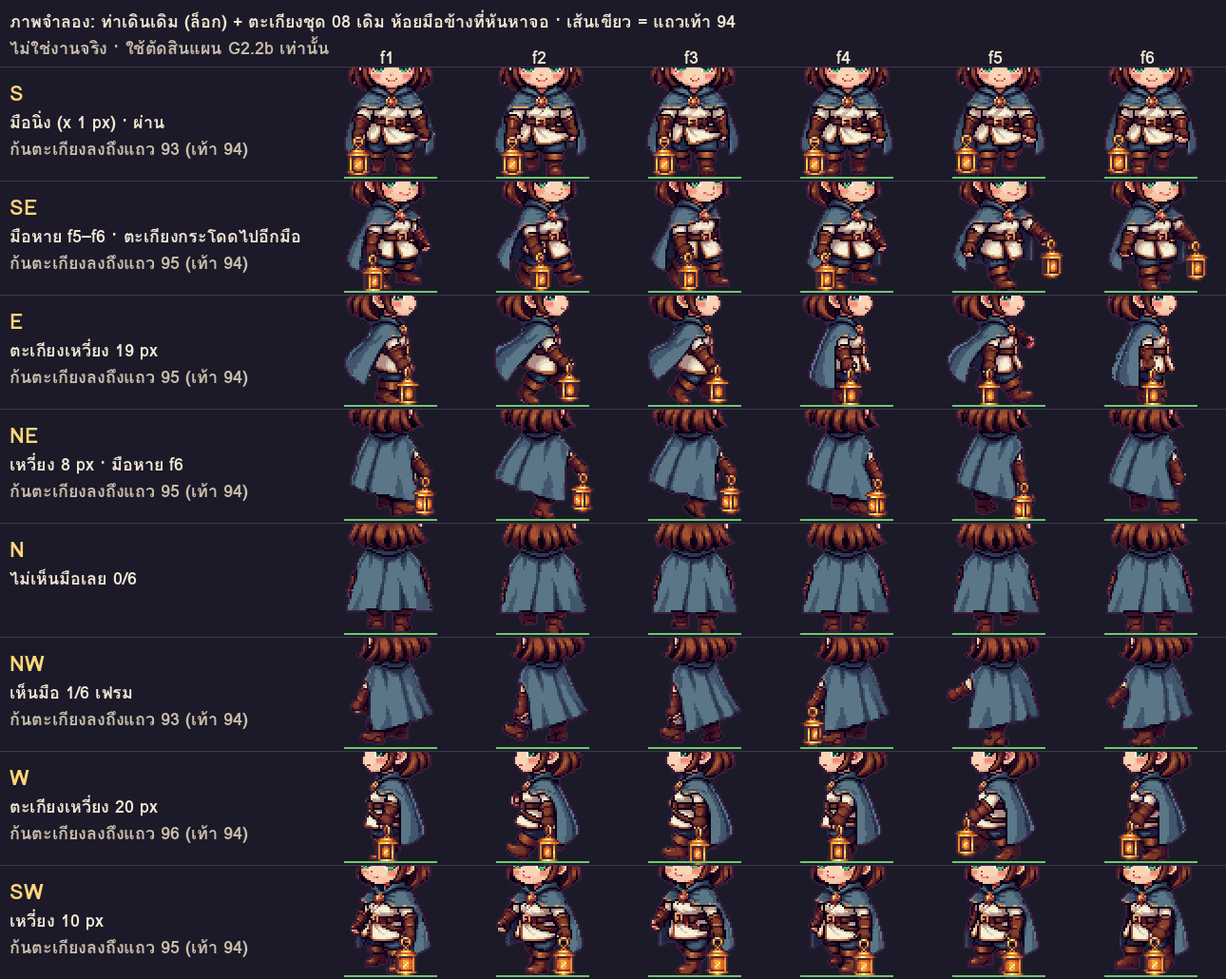
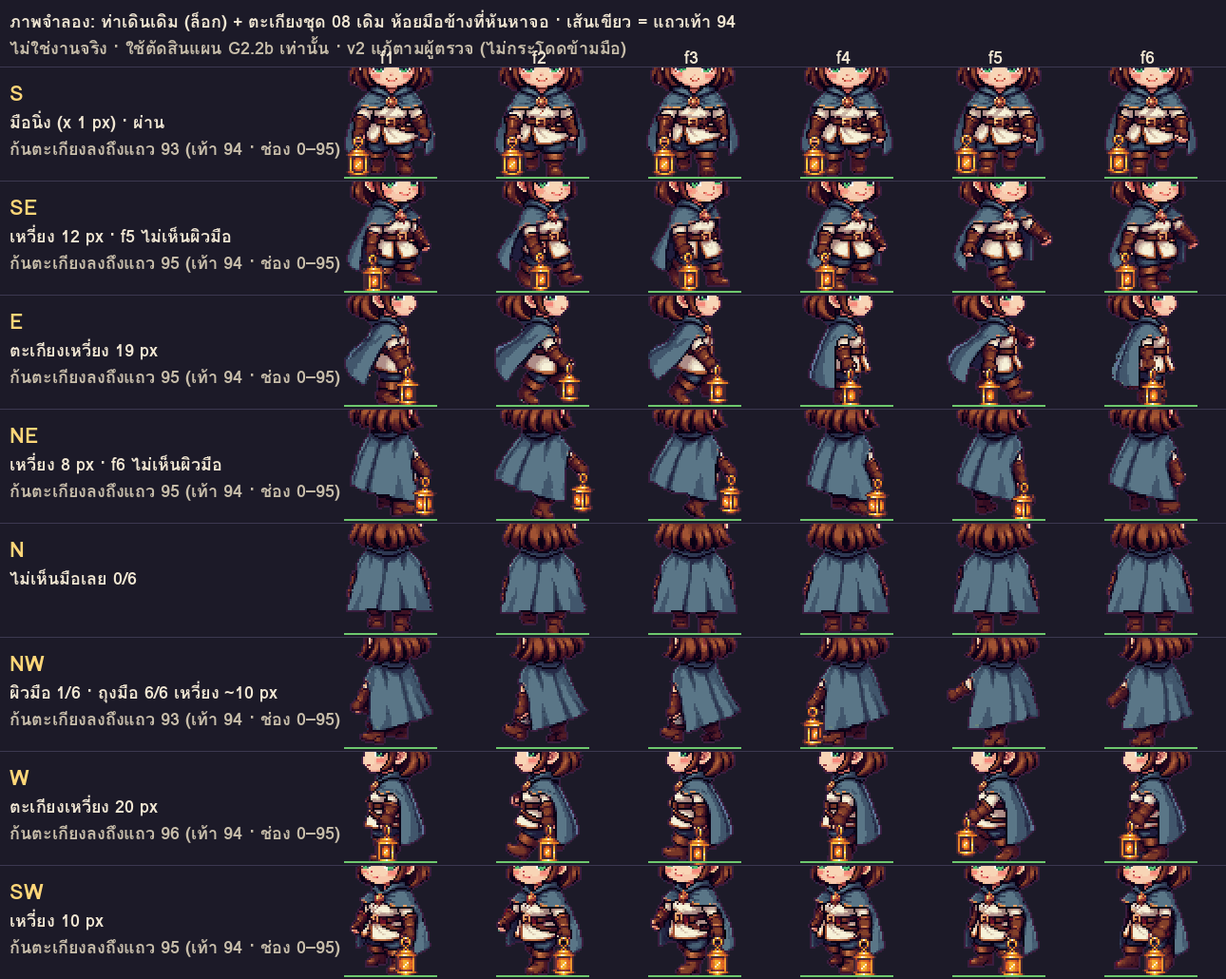
G2.2b plan v0.1: fixes from Claude's independent reviewer (mock no longer jumps hands: SE 5/6 skin 12 px, NW gloved fist 6/6 ~10 px; lantern 3-4 px too long; hand rule is an owner decision since Spec v2 says right hand; measurable fist rule skin + ID7 within 2 px (max 37 px); N is an owner exception
Claude-Session: https://claude.ai/code/session_01SmMvQnyFs5gQEFU8cw32m3

diff --git a/qa_g22b_trial.py b/qa_g22b_trial.py
@@ -1,0 +1,106 @@
+# G2.2b step 3: measure one PixelLab walk GIF (low arm swing) against the locked walk (same method on both).
+# usage: python3 -I qa_g22b_trial.py WT DIR GIF OUTDIR   (self-test: a GIF rebuilt from walk-src.png row reproduces head diff 0, new colours 0, pass_hand False for E)
+import sys, json, numpy as np
+from PIL import Image, ImageSequence, ImageDraw
+from scipy import ndimage as nd
+WT, D, GIF, OUT = sys.argv[1:5]
+L8=['S','SE','E','NE','N','NW','W','SW']; C=96; r=L8.index(D)
+src=json.load(open(f'{WT}/c2-pilot-kid4-walk-src.json'))
+static_x=src['walk_anchor'][D]['static_body_x']
+g=Image.open(GIF); fr=[]; ms=[]
+for f in ImageSequence.Iterator(g):
+    fr.append(np.array(f.convert('RGBA'))); ms.append(f.info.get('duration'))
+fr=np.stack(fr); fr[...,3]=np.where(fr[...,3]>0,255,0)
+n,H,W,_=fr.shape
+op=fr[...,3]>0
+ys=np.where(op.any(axis=(0,2)))[0]; low=int(ys.max())
+dy=94-low
+# cycle-mean body centre rows 52-86 after dy
+bx=[]
+for k in range(n):
+    yy,xx=np.where(op[k]); sel=(yy+dy>=52)&(yy+dy<=86); bx.append(xx[sel].mean())
+dx=round(static_x-float(np.mean(bx)))
+cells=np.zeros((n,C,C,4),np.uint8)
+for k in range(n):
+    yy,xx=np.where(op[k]); Y=yy+dy; X=xx+dx
+    ok=(Y>=0)&(Y<C)&(X>=0)&(X<C)
+    lost=int((~ok).sum())
+    cells[k,Y[ok],X[ok]]=fr[k,yy[ok],xx[ok]]
+# palettes from locked files
+def cols(img): a=np.array(img.convert('RGBA')).reshape(-1,4); return {tuple(p[:3]) for p in a if p[3]}
+locked=cols(Image.open(f'{WT}/c2-pilot-kid4-walk-src.png'))|cols(Image.open(f'{WT}/c2-pilot-kid4-walk.png'))|cols(Image.open(f'{WT}/c2-pilot-kid4-idleanim.png'))
+W_=np.array(Image.open(f'{WT}/c2-pilot-kid4-walk.png').convert('RGBA')); WM=np.array(Image.open(f'{WT}/c2-pilot-kid4-walk-mask.png').convert('RGBA'))
+# skin colours = colours used as ID 3 in >=85% of their locked uses and >=100 px (PixelLab shares colours across materials)
+from collections import defaultdict
+use=defaultdict(lambda:defaultdict(int))
+for fn in ['walk','idleanim']:
+    I_=np.array(Image.open(f'{WT}/c2-pilot-kid4-{fn}.png').convert('RGBA')); M_=np.array(Image.open(f'{WT}/c2-pilot-kid4-{fn}-mask.png').convert('RGBA'))
+    o=I_[...,3]>0
+    for c,i in zip(map(tuple,I_[o][:,:3]),M_[o][:,0]): use[tuple(int(v) for v in c)][int(i)]+=1
+skin={c for c,v in use.items() if v.get(3,0)>=100 and v.get(3,0)/sum(v.values())>=0.85}
+newc={}
+for k in range(n):
+    for p in cells[k][cells[k][...,3]>0][:,:3]:
+        t=tuple(int(v) for v in p)
+        if t not in locked: newc[t]=newc.get(t,0)+1
+def fists(cell):
+    sk=np.zeros(cell.shape[:2],bool)
+    for yy in range(60,C):
+        for xx in range(C):
+            if cell[yy,xx,3] and tuple(int(v) for v in cell[yy,xx,:3]) in skin: sk[yy,xx]=True
+    lab,m=nd.label(nd.binary_dilation(sk,iterations=2),structure=np.ones((3,3))); out=[]
+    for i in range(1,m+1):
+        yy,xx=np.where((lab==i)&sk)
+        if len(xx)>=2: out.append((float(xx.mean()),float(yy.mean()),len(xx)))
+    return out
+track=[]; prev=None
+for k in range(n):
+    c=fists(cells[k])
+    if not c: track.append(None); continue
+    p=max(c,key=lambda q:(q[2],q[1])) if prev is None else min(c,key=lambda q:(q[0]-prev[0])**2+(q[1]-prev[1])**2)
+    prev=p; track.append([round(p[0]),round(p[1])])
+vis=[t for t in track if t]
+# baseline: same method on the locked raw walk (walk-src.png) of this direction
+WS=np.array(Image.open(f'{WT}/c2-pilot-kid4-walk-src.png').convert('RGBA'))[r*C:(r+1)*C]
+bt=[];bp=None
+for k in range(6):
+    c=fists(WS[:,k*C:(k+1)*C])
+    if not c: bt.append(None); continue
+    q=max(c,key=lambda q:(q[2],q[1])) if bp is None else min(c,key=lambda q:(q[0]-bp[0])**2+(q[1]-bp[1])**2)
+    bp=q; bt.append([round(q[0]),round(q[1])])
+bv=[t for t in bt if t]
+baseline=dict(near_hand=bt,visible=f'{len(bv)}/6',x_range=(max(v[0] for v in bv)-min(v[0] for v in bv)) if bv else None,y_range=(max(v[1] for v in bv)-min(v[1] for v in bv)) if bv else None)
+jumps=[max(abs(a[0]-b[0]),abs(a[1]-b[1])) for a,b in zip(track,track[1:]+track[:1]) if a and b]
+# locked walk same direction for comparison
+LW=np.array(Image.open(f'{WT}/c2-pilot-kid4-walk.png').convert('RGBA'))[r*C:(r+1)*C]
+head_diff=[]
+for k in range(min(n,6)):
+    a=cells[k][:52]; best=None
+    for sx in range(-3,4):
+        for sy in range(-3,4):
+            b=np.roll(np.roll(WS[:52,k*C:(k+1)*C],sy,0),sx,1)
+            d=int(((a[...,3]>0)!=(b[...,3]>0)).sum()+((a[...,3]>0)&(b[...,3]>0)&(np.abs(a[...,:3].astype(int)-b[...,:3].astype(int)).sum(-1)>0)).sum())
+            if best is None or d<best[0]: best=(d,sx,sy)
+    head_diff.append(best)
+rep=dict(direction=D,gif=GIF,frames=n,gif_ms=ms,canvas=[W,H],placement_dxdy=[dx,dy],pixels_lost_outside_cell=lost,
+  lowest_row=94,new_colours_not_in_locked=len(newc),new_colour_pixels=sum(newc.values()),
+  near_hand=track,visible=f'{len(vis)}/{n}',
+  x_range=(max(v[0] for v in vis)-min(v[0] for v in vis)) if vis else None,
+  y_range=(max(v[1] for v in vis)-min(v[1] for v in vis)) if vis else None,
+  max_adjacent_jump=max(jumps) if jumps else None,
+  head_rows0_51_diff_vs_raw_walk_best_shift=head_diff,
+  baseline_locked_walk_same_method=baseline,
+  pass_hand=bool(vis and len(vis)==n and (max(v[0] for v in vis)-min(v[0] for v in vis))<=4 and (max(v[1] for v in vis)-min(v[1] for v in vis))<=3 and max(jumps)<=3))
+json.dump(rep,open(f'{OUT}/trial-{D}.json','w'),indent=1); print(json.dumps(rep))
+# side-by-side GIF with stand-in lantern: locked walk | trial
+lan=Image.open(f'{WT}/kid-lantern.png').convert('RGBA').crop((r*32,0,(r+1)*32,32))
+mock=json.load(open(f'{WT}/qa/g2-2b-plan/mock.json'))['anchors']['walk'][D]
+SC=4; frames=[]
+for k in range(n):
+    can=Image.new('RGBA',(2*C,C),(28,26,40,255))
+    for i,(cell,p) in enumerate([(Image.fromarray(LW[:,(k%6)*C:((k%6)+1)*C]),mock[k%6]),(Image.fromarray(cells[k]),track[k])]):
+        b=Image.new('RGBA',(C,C),(0,0,0,0)); b.alpha_composite(cell)
+        if p: b.alpha_composite(lan,(p[0]-16,p[1]-6))
+        ImageDraw.Draw(b).line([(24,94),(72,94)],fill=(110,200,110,255)); can.alpha_composite(b,(i*C,0))
+    frames.append(can.resize((2*C*SC,C*SC),Image.NEAREST).convert('P',palette=Image.ADAPTIVE))
+frames[0].save(f'{OUT}/trial-{D}-vs-locked.gif',save_all=True,append_images=frames[1:],duration=100,loop=0,disposal=2)

diff --git a/qa/g2-2b-plan/mock_sheet.py b/qa/g2-2b-plan/mock_sheet.py
@@ -8,17 +8,17 @@ walk=Image.open(f'{WT}/c2-pilot-kid4-walk.png').convert('RGBA')
 F=ImageFont.truetype('/usr/share/fonts/opentype/tlwg/Loma-Bold.otf',22)
 Fs=ImageFont.truetype('/usr/share/fonts/opentype/tlwg/Loma-Bold.otf',18)
 X0,Y0,X1,Y1=8,36,88,96; cw,ch=(X1-X0)*2,(Y1-Y0)*2; LW=330
-note={'S':'มือนิ่ง (x 1 px) · ผ่าน','SE':'มือหาย f5–f6 · ตะเกียงกระโดดไปอีกมือ','E':'ตะเกียงเหวี่ยง 19 px','NE':'เหวี่ยง 8 px · มือหาย f6',
-      'N':'ไม่เห็นมือเลย 0/6','NW':'เห็นมือ 1/6 เฟรม','W':'ตะเกียงเหวี่ยง 20 px','SW':'เหวี่ยง 10 px'}
+note={'S':'มือนิ่ง (x 1 px) · ผ่าน','SE':'เหวี่ยง 12 px · f5 ไม่เห็นผิวมือ','E':'ตะเกียงเหวี่ยง 19 px','NE':'เหวี่ยง 8 px · f6 ไม่เห็นผิวมือ',
+      'N':'ไม่เห็นมือเลย 0/6','NW':'ผิวมือ 1/6 · ถุงมือ 6/6 เหวี่ยง ~10 px','W':'ตะเกียงเหวี่ยง 20 px','SW':'เหวี่ยง 10 px'}
 im=Image.new('RGB',(LW+6*cw,70+8*ch),(28,26,40)); d=ImageDraw.Draw(im)
 d.text((10,8),'ภาพจำลอง: ท่าเดินเดิม (ล็อก) + ตะเกียงชุด 08 เดิม ห้อยมือข้างที่หันหาจอ · เส้นเขียว = แถวเท้า 94',font=Fs,fill=(240,230,210))
-d.text((10,36),'ไม่ใช่งานจริง · ใช้ตัดสินแผน G2.2b เท่านั้น',font=Fs,fill=(200,190,170))
+d.text((10,36),'ไม่ใช่งานจริง · ใช้ตัดสินแผน G2.2b เท่านั้น · v2 แก้ตามผู้ตรวจ (ไม่กระโดดข้ามมือ)',font=Fs,fill=(200,190,170))
 for r,D in enumerate(L8):
     oy=70+r*ch
     s=SM[D]; bot=s.get('lantern_bottom_max')
     d.text((10,oy+10),D,font=F,fill=(255,214,120))
     d.text((10,oy+44),note[D],font=Fs,fill=(240,230,210))
-    if bot: d.text((10,oy+72),f'ก้นตะเกียงลงถึงแถว {bot} (เท้า 94)',font=Fs,fill=(200,190,170))
+    if bot: d.text((10,oy+72),f'ก้นตะเกียงลงถึงแถว {bot} (เท้า 94 · ช่อง 0–95)',font=Fs,fill=(200,190,170))
     for f in range(6):
         cell=walk.crop((f*C,r*C,(f+1)*C,(r+1)*C)); p=A[D][f]
         lay=Image.new('RGBA',(C,C),(0,0,0,0))

diff --git a/qa/g2-2b-plan/mock_lantern_reuse.py b/qa/g2-2b-plan/mock_lantern_reuse.py
@@ -1,6 +1,7 @@
 # G2.2b feasibility mock (scratch only, not a deliverable):
 # hang the existing Set-08 L0 lantern on the visible fist of the LOCKED idle/walk frames.
 # Fist = skin (mask ID 3) pixels below row 60, grouped; near-camera hand rule.
+# NOTE: 'visible' here = finger SKIN visible; gloved fists without skin (ID 7 only) count as not visible.
 import sys, json, numpy as np
 from PIL import Image, ImageDraw
 from scipy import ndimage as nd
@@ -22,7 +23,9 @@ def pick(cands, prev, D):
     if prev is None:
         if D=='S': return min(cands,key=lambda c:c[0])          # character's right hand = screen left
         return max(cands,key=lambda c:(c[1],c[2]))                # nearest camera = lowest on screen
-    return min(cands,key=lambda c:(c[0]-prev[0])**2+(c[1]-prev[1])**2)
+    best=min(cands,key=lambda c:(c[0]-prev[0])**2+(c[1]-prev[1])**2)
+    # v2 (review fix): never jump to the other hand - a fist further than 14 px from the last one is not the same hand
+    return best if max(abs(best[0]-prev[0]),abs(best[1]-prev[1]))<=14 else None
 res={}
 for anim,nf,fn in [('idle',4,'idleanim'),('walk',6,'walk')]:
     S=Image.open(f'{WT}/c2-pilot-kid4-{fn}.png').convert('RGBA')
@@ -32,7 +35,7 @@ for anim,nf,fn in [('idle',4,'idleanim'),('walk',6,'walk')]:
         prev=None; rows=[]
         for f in range(nf):
             c=pick(fists(M[r*C:(r+1)*C,f*C:(f+1)*C]),prev,D)
-            if c: prev=c
+            if c: prev=c  # a frame without skin keeps the last seen position for tracking only (anchor stays None)
             rows.append(None if c is None else [round(c[0]),round(c[1])])
         res[anim][D]=rows
 def stats(rows):
@@ -55,7 +58,7 @@ def frame(anim,fn,nf,f,bg):
         p=res[anim][D][f]
         L=lan.crop((r*32,0,(r+1)*32,32))
         layer=Image.new('RGBA',(C,C),(0,0,0,0))
-        back = D in ('N','NW','W','SW')
+        back = False  # plan 4.2: near-camera hand -> lantern always in front (v2 review fix)
         if p: 
             pos=(p[0]-RING[0],p[1]-RING[1])
         if p and back: layer.alpha_composite(L,pos)

diff --git a/G2_2B_LANTERN_HOLD_PLAN.md b/G2_2B_LANTERN_HOLD_PLAN.md
@@ -1,8 +1,10 @@
-# G2.2b — แผนท่าถือตะเกียงของตัวเด็ก 8 ทิศ (Claude · ฉบับ v0 · 16 ต.ค. 2569 ~14:0x)
+# G2.2b — แผนท่าถือตะเกียงของตัวเด็ก 8 ทิศ (Claude · ฉบับ v0.1 · 16 ต.ค. 2569 ~14:3x)
 
-**สถานะ: ร่างแผน · รอเจ้าของเลือกวิธีทำท่าเดินถือ (คำถามเดียว ข้อ 3) · 🟧 ChatGPT ตรวจแผนคู่ขนาน (กติกา 0.1 + 0.3) · ยังไม่สั่ง Codex · ยังไม่กด PixelLab**
+**สถานะ: ร่างแผน · รอเจ้าของเลือกวิธีทำท่าเดินถือ (ข้อ 3 · ถามก่อน) · เรื่องถือมือไหน (D-HAND ข้อ 4.1) ถามหลังขั้นลองทิศ E · 🟧 ChatGPT ตรวจแผนคู่ขนาน (กติกา 0.1 + 0.3) · ยังไม่สั่ง Codex · ยังไม่กด PixelLab**
 
-**อ้างอิง:** D9 (เจ้าของ 16 ต.ค. ~13:4x) · `STORY.md` ข้อ 7–8 · Spec v2 ข้อ 2–3 และ 9 (`idle_hold` 4 เฟรม 5 FPS · `walk_hold` 6 เฟรม 10 FPS · ชั้น `held_front`/`held_back`) · Reboot Plan ข้อ 5 (lantern slot) · `G2_0_VERTICAL_SLICE_PLAN.md` G2.5 (grip บนมือ 80 เฟรม) · `DESIGN_CHAR2_RENDER_CONTRACT.md` · `ASSET_SPEC_12` Part B (กติกาเก็บงานท่าเดิน) · `PIXELLAB_GUIDE.md` ข้อ 7
+**อ้างอิง:** D9 (เจ้าของ 16 ต.ค. ~13:4x) · `STORY.md` ข้อ 7–8 · Spec v2 ข้อ 2–3 และ 9 (`idle_hold` 4 เฟรม 5 FPS "ยืนถือตะเกียงมือขวา" · `walk_hold` 6 เฟรม 10 FPS · ชั้น `held_front`/`held_back` ตามค่า z ต่อเฟรม) · Reboot Plan ข้อ 5 (lantern slot) · `G2_0_VERTICAL_SLICE_PLAN.md` G2.5 (grip บนมือ 100% ของ 80 เฟรม) และ G2.6 (เห็นตะเกียงโดยไม่ซูม) · `DESIGN_CHAR2_RENDER_CONTRACT.md` · `ASSET_SPEC_12` Part B (กติกาเก็บงานท่าเดิน) · `PIXELLAB_GUIDE.md` ข้อ 7
+
+**ประวัติฉบับ:** v0 `893c014` · **v0.1 = ฉบับนี้** แก้ตามผู้ตรวจอิสระของ Claude: ตัวเลข SE/NW ในข้อ 2 (สคริปต์จำลองเดิมกระโดดข้ามมือ) · ตะเกียงยาวเกิน 3–4 px · ถือมือไหนเป็นเรื่องที่เจ้าของต้องตัดสิน (Spec v2 เขียนมือขวา) · วิธีหาจุดมือให้วัดได้จริง · ทิศ N เป็นข้อยกเว้นที่เจ้าของต้องรับ · ค่า z ตาม Spec v2
 
 ## 1. เป้าหมายและขอบเขต
 - ตัวเด็ก `_4` ถือตะเกียง: ท่ายืนถือ `idle_hold` (4 เฟรม · 5 FPS) และท่าเดินถือ `walk_hold` (6 เฟรม · 10 FPS) · 8 ทิศ
@@ -12,45 +14,64 @@
 - **ไม่อยู่ใน G2.2b:** ภาพตะเกียงจริงของตัวใหม่และแสงอุ่น (G2.5) · กติกา "ตะเกียงหมด → มอนตี" (G3/G4) · สลับท่าตามแผนที่ในเกมจริง (G3 · ใน Pilot ใช้ปุ่มสลับ) · ผู้ใหญ่ไม่มีท่าถือ (D9)
 
 ## 2. สิ่งที่วัดแล้ว (ภาพจำลอง · 0 เครดิต · ไม่แก้ภาพ)
-นำตะเกียงชุด 08 L0 ไปห้อยที่กำปั้นของ **ท่ายืนและท่าเดินที่ล็อกแล้ว** (มือข้างที่หันหาจอ) · หลักฐาน `qa/g2-2b-plan/` (`g22b-mock-walk-reuse.png` `.gif` `mock.json` · สคริปต์ `mock_lantern_reuse.py`)
+นำตะเกียงชุด 08 L0 ไปห้อยที่กำปั้นของ **ท่ายืนและท่าเดินที่ล็อกแล้ว** (มือข้างที่หันหาจอ) · หลักฐาน `qa/g2-2b-plan/` (`g22b-mock-walk-reuse.png` `.gif` `mock.json` · สคริปต์ `mock_lantern_reuse.py` v2) · **ผู้ตรวจอิสระวัดซ้ำด้วยโค้ดของตัวเอง ตัวเลขตรงกัน** (SE และ NW แก้ตามผู้ตรวจ)
 
-| ทิศ | ยืน: เห็นมือ · มือเลื่อน | เดิน: เห็นมือ · ตะเกียงเหวี่ยงซ้ายขวา | ก้นตะเกียง (เท้า = แถว 94) |
+"เห็นมือ" ในตาราง = เห็น **ผิวนิ้ว** (ID 3) · กำปั้นส่วนใหญ่เป็นถุงมือหนัง (ID 7) เห็นผิวนิ้วแค่ 1–17 px ต่อกำปั้น
+
+| ทิศ | ยืน: เห็นมือ · มือเลื่อน | เดิน: เห็นมือ · ตะเกียงเหวี่ยงซ้ายขวา | ก้นตะเกียง ยืน / เดิน (เท้า = แถว 94) |
 |---|---|---|---|
-| S | 4/4 · 1 px | 6/6 · 1 px ✅ | ยืน 96 · เดิน 93 |
-| SE | 4/4 · 3 px | มือหาย f5–f6 → ตะเกียงกระโดดไปอีกมือ ❌ | 96 / 95 |
+| S | 4/4 · 1 px | 6/6 · 1 px ✅ | 96 / 93 |
+| SE | 4/4 · 3 px | 5/6 · **12 px** ❌ (f5 เห็นแต่ถุงมือ) | 96 / 95 |
 | E | 4/4 · 1 px | 6/6 · **19 px** ❌ | 95 / 95 |
 | NE | 4/4 · 3 px | 5/6 · 8 px ❌ | 95 / 95 |
 | N | **0/4** (ผ้าคลุมบังมือ) | **0/6** | — |
-| NW | 4/4 · 2 px | **1/6** ❌ | 96 / 93 |
+| NW | 4/4 · 2 px | ผิว 1/6 · **ถุงมือเห็น 6/6 · เหวี่ยง ~10 px** ❌ | 96 / 93 |
 | W | 4/4 · 0 px | 6/6 · **20 px** ❌ | 95 / 96 |
 | SW | 4/4 · 3 px | 6/6 · 10 px ❌ | 96 / 95 |
 
+แถว 96 อยู่นอกช่องภาพ (ช่องมีแถว 0–95) = ตะเกียงจมพื้น
+
 สรุป
 1. **ท่ายืนที่ล็อก (C+A) ใช้เป็น `idle_hold` ได้เลย** · มือนิ่ง (เลื่อน ≤ 3 px) เห็นมือครบใน 7 ทิศ · N มือซ่อนใต้ผ้าคลุมทุกเฟรม
-2. **ท่าเดินที่ล็อก (B) ใช้เป็น `walk_hold` ไม่ได้** · แขนแกว่งเต็มที่ ตะเกียงจะเหวี่ยง 8–20 px หรือหายไปกลางรอบใน 6 ทิศ (ผ่านแค่ S · N ไม่เห็นมืออยู่แล้ว)
-3. **ตะเกียงชุด 08 (13×22) ยาวเกินเมื่อห้อยจากมือของตัวนี้** · ก้นลงถึงแถว 95–96 = ต่ำกว่าเท้า 1–2 แถว (ผิวมืออยู่แถว 67–78 · ตัวใหม่แขนสั้นแบบหัวโต) → ส่งเป็นตัวเลข "ความยาวห้อยสูงสุด" ให้ภาพตะเกียงจริงใน G2.5 (ข้อ 6 เกณฑ์ 8)
-4. ผิว (ID 3) ของหน้า/คอจบที่แถว ≤ 51 · ผิวมือเริ่มแถว ≥ 67 · แถว 52–66 มีผิว 0 จุด (80 เฟรม) → หาตำแหน่งมือจาก mask ได้โดยไม่เดา (ข้อ 5)
+2. **ท่าเดินที่ล็อก (B) ใช้เป็น `walk_hold` ไม่ได้** · แขนแกว่งเต็มที่ ตะเกียงเหวี่ยง 8–20 px ใน 6 ทิศ (ผ่านแค่ S · N ไม่เห็นมืออยู่แล้ว)
+3. **ตะเกียงชุด 08 (13×22) ยาวเกินเมื่อห้อยจากมือของตัวนี้** · ก้นลงถึงแถว 95–96 · เทียบเกณฑ์ "ไม่ต่ำกว่าแถว 92" ยาวเกิน **3–4 px** (ผิวมืออยู่แถว 67–78 · ตัวใหม่แขนสั้นแบบหัวโต) · ภาพจำลองแขวนที่กลางห่วง `(16,6)` · ถ้าใช้ `grip` จริงของไฟล์ `(16,4)` จะต่ำลงอีก 2 px → ส่งเป็นตัวเลข "ความยาวห้อยสูงสุด" ให้ภาพตะเกียงจริงใน G2.5 (ข้อ 6 เกณฑ์ 8)
+4. ผิว (ID 3) ของหน้า/คอจบที่แถว ≤ 51 · ผิวมือเริ่มแถว ≥ 67 · แถว 52–66 มีผิว 0 จุด (80 เฟรม) → ใช้ผิวใต้แถว 60 เป็นจุดตั้งต้นหามือได้ (ข้อ 5)
 
-## 3. ทางเลือกทำท่าเดินถือ — คำถามถึงเจ้าของ
+## 3. ทางเลือกทำท่าเดินถือ — คำถามถึงเจ้าของ (ถามก่อน)
 | | วิธี | ข้อดี | ข้อเสีย |
 |---|---|---|---|
-| **A ⭐** | **PixelLab ท่าเดินแบบเดิม** (Template · Skeleton v3 · Walking 6 frames) **ลดค่า Arm swing ต่ำสุด** · เจ้าของกด **ทิศ E ก่อน 1 ทิศ** → Claude วัด → ผ่านแล้วจึงกด 🚀 ทิศอื่น → Codex เก็บงานตามกติกา Part B เดิม | โมเดลเดียวกับท่าเดินที่ล็อก → หน้าและสีคงเดิม (คู่มือ: Skeleton v3 คงสีเป๊ะ) · ไม่ต้องเขียนพรอมป์ · ลองทิศเดียวก่อน ไม่ได้ก็เสียน้อย · กติกาเก็บงานและสคริปต์ตรวจ (`qa_asset12.py walk`) มีพร้อมแล้ว | แขนอีกข้างแกว่งน้อยลงด้วย (ดูแข็งขึ้นนิด) · ยังไม่รู้ว่าแถบ Arm swing ลดได้ต่ำแค่ไหน → ขั้นลองทิศ E ตอบ · Codex ต้องเก็บงานใหม่ราว 36 เฟรม |
+| **A ⭐** | **PixelLab ท่าเดินแบบเดิม** (Template · Skeleton v3 · Walking 6 frames) **ลดค่า Arm swing ต่ำสุด** · เจ้าของกด **ทิศ E ก่อน 1 ทิศ** → Claude วัด → ผ่านแล้วจึงกด 🚀 ทิศอื่น → Codex เก็บงานตามกติกา Part B เดิม | โมเดลเดียวกับท่าเดินที่ล็อก → หน้าและสีคงเดิม (คู่มือ: Skeleton v3 คงสีเป๊ะ) · ไม่ต้องเขียนพรอมป์ · ลองทิศเดียวก่อน ไม่ได้ก็เสียน้อย · กติกาเก็บงานและสคริปต์ตรวจ (`qa_asset12.py walk` · `qa_g22b_trial.py`) มีพร้อมแล้ว | แขนอีกข้างแกว่งน้อยลงด้วย (ดูแข็งขึ้นนิด) · ยังไม่รู้ว่าแถบ Arm swing ลดได้ต่ำแค่ไหน → ขั้นลองทิศ E ตอบ · Codex เก็บงานใหม่ ~36 เฟรม (6 ทิศ) · ทิศ S และ N ใช้ท่าเดินเดิม → แขนอีกข้างใน S/N แกว่งเต็มกว่าทิศอื่น (ถ้าเห็นต่างชัด เก็บงานใหม่ครบ 8 ทิศ = 48 เฟรม) · คู่มือ PixelLab ให้ Reset ค่าท่าเดินเพื่อให้เด็กทุกตัวเดินเหมือนกัน → ค่า Arm swing ของท่าถือต้องจดไว้และใช้ค่าเดียวกับเด็กทุกตัวในอนาคต |
 | B | Codex วาดแขนข้างถือใหม่บนท่าเดินที่ล็อก (ไม่ใช้ PixelLab) | แขนอีกข้างแกว่งตามเดิม · ขา/หน้าไม่เปลี่ยน | ต้องวาดแขนใหม่และซ่อมผ้าคลุม/ลำตัวตรงที่แขนเคยแกว่ง ~36 เฟรม · เสี่ยงความสวย (เกณฑ์ชุด 8.5) · ช้ากว่า |
-| C | ใช้ท่าเดินที่ล็อกเลย ไม่ทำภาพใหม่ | เร็วสุด 0 งานภาพ | ตะเกียงเหวี่ยง 8–20 px · สลับมือกลางรอบ · หายใน NE NW (ข้อ 2) · ไม่ผ่านเกณฑ์ G2.5 |
+| C | ใช้ท่าเดินที่ล็อกเลย ไม่ทำภาพใหม่ | เร็วสุด 0 งานภาพ | ตะเกียงเหวี่ยง 8–20 px ใน 6 ทิศ (ข้อ 2) · ไม่ผ่านเกณฑ์ข้อ 6 ข้อ 4 |
 
 ไม่เสนอ Custom Animation (เขียนท่าเอง): คู่มือบอกสีอาจเพี้ยน และตะเกียงจะติดอยู่ในภาพตัว ต้องลบออกทีหลัง (ขัด Spec v2 ที่ให้ของถือเป็นภาพแยก)
 
-## 4. กติกาวาดตะเกียง (Claude ตัดสินตามกติกา 0.2 · โค้ด Pilot เท่านั้น · ย้อนได้ด้วยตาราง)
-1. **ถือมือข้างที่หันหาจอ:** S SE E NE = มือขวา · SW W NW = มือซ้าย · **N = ไม่วาดตะเกียง** (ถืออยู่หน้าตัว ตัวบังพอดี · เห็นแค่แสงใน G2.5) · เหตุผล: ถือมือขวาตลอดจะซ่อนหลังตัว 4/8 ทิศ (W SW NW N) ไม่ผ่านเกณฑ์ "เห็นตะเกียงโดยไม่ซูม" (G2_0 ข้อ G2.6) · ย้อนกลับ = แก้ตาราง `hold_hand` ในไฟล์จุดยึด · ถ้าเจ้าของอยากให้ถือขวาตลอด บอกได้
-2. **ชั้นภาพ:** ตะเกียงวาดหน้าตัว (`held_front`) ทุกทิศที่วาด · จากนั้นวาด **นิ้วทับห่วง** = พิกเซลกำปั้นจากภาพตัวเดิมทับอีกชั้น (ไม่สร้างภาพใหม่ · ปิดได้ด้วย `?nofist` เพื่อเทียบ)
+## 4. กติกาวาดตะเกียง
+### 4.1 D-HAND: ถือมือไหน — เจ้าของตัดสิน (ถามหลังขั้นลองทิศ E · จะแนบภาพเทียบทั้ง 2 แบบ)
+Spec v2 เขียน "ยืนถือตะเกียงมือขวา" · Claude เสนอทางที่ 2 แต่ **ต่างจากสเปก จึงต้องให้เจ้าของอนุมัติ** (ไม่ใช่เรื่องที่ Claude ตัดสินเองตามกติกา 0.2)
+
+| | มือขวาตลอด (ตาม Spec v2) | ⭐ มือข้างที่หันหาจอ (เสนอ) |
+|---|---|---|
+| มือที่ถือ | ขวาทุกทิศ | S SE E NE = ขวา · SW W NW = ซ้าย |
+| เห็นตะเกียง | 5/8 ทิศ: S SE E NE SW (SW ตอนเดินเห็นมือ 3/6) · ซ่อน W NW N | **7/8 ทิศ** · ซ่อนแค่ N |
+| หน้า/หลังตัว | SW = หลังตัว · ที่เหลือหน้าตัว | หน้าตัวทุกทิศที่วาด |
+| ข้อเสีย | ตะเกียงหายเวลาเดินไปทางซ้าย ไม่ผ่าน "เห็นตะเกียงโดยไม่ซูม" ใน 3 ทิศ | หันข้าม S หรือ N ตะเกียงย้ายมือ (ขวา ↔ ซ้าย) |
+
+ทั้ง 2 แบบ: **ทิศ N ไม่วาดตะเกียง** (มือซ่อนใต้ผ้าคลุม วัดตำแหน่งไม่ได้ · ถ้าวาดต้องเดา) · เห็นแค่แสงใน G2.5 → **ข้อยกเว้นที่เจ้าของต้องรับ** เพราะ G2.5 เขียน "100% ของ 80 เฟรม" และ G2.6 เขียน "เห็นตะเกียงโดยไม่ซูม" · ย้อนกลับได้ด้วยตาราง `hold_hand` ในไฟล์จุดยึด (โค้ดอย่างเดียว)
+
+### 4.2 กติกาวาดอื่น (Claude ตัดสินตามกติกา 0.2 · โค้ด Pilot เท่านั้น)
+1. **ชั้นภาพตาม Spec v2:** หน้า/หลังตัวอ่านจากค่า z ของจุดยึดมือต่อเฟรม (`held_front` / `held_back`) · มือที่อยู่ฝั่งจอ = หน้าตัว · มือฝั่งไกล = หลังตัว
+2. **นิ้วทับห่วง:** ตะเกียงหน้าตัว → วาดพิกเซลกำปั้นจากภาพตัวเดิมทับอีกชั้น (ไม่สร้างภาพใหม่ · ปิดได้ด้วย `?nofist` เพื่อเทียบ)
 3. ห้ามหมุน ห้ามย่อขยาย วางที่พิกเซลจำนวนเต็ม · เงาและแสงของตะเกียง = G2.5
 4. ค่าชดเชย B2 ใช้กับตะเกียงด้วย (ตะเกียงเลื่อนไปกับตัว) · ตำแหน่งจริงในโลก การชน การหาทาง ออนไลน์ y-sort ไม่ใช้ค่านี้ (ตาม Render Contract 6.2)
 5. ป้ายชื่อไม่เปลี่ยน (ตะเกียงอยู่ต่ำกว่าหัว)
 
-## 5. จุดยึดมือ (ไม่มีค่าเดา)
-- มือ = ผิว ID 3 ที่แถว ≥ 60 รวมกับถุงมือ ID 7 ที่ติดกัน · ค่า `hand_*` = จุดกลางกำปั้น (ปัดเป็นจำนวนเต็ม) · ตรวจซ้ำกับเฟรมใหม่ทุกครั้งว่าแถว 52–66 ยังมีผิว 0 จุด
-- เฟรมที่มองไม่เห็นมือ → `null` + เหตุผล · เฟรมที่ตาเห็นมือแต่สคริปต์หาไม่เจอ → ขอ Codex มาร์กกรอบมือ (ไม่เดา)
-- ตะเกียงตัวแทน: จุดจับ = กลางห่วง `(16,6)` ของช่อง 32×32 (ห่วงอยู่ในกำปั้น) · ตะเกียงจริงใน G2.5 ใช้ `grip` ของมันเอง
+## 5. จุดยึดมือ (วัดได้ · ไม่มีค่าเดา)
+- **พิกเซลกำปั้น** = ผิว ID 3 ที่แถว ≥ 60 + ถุงมือ ID 7 ที่อยู่ห่างผิวนั้น **ไม่เกิน 2 px** (ไม่ใช้ "ID 7 ที่ติดกันทั้งหมด" เพราะจะลามไปทั้งแขน เข็มขัด บูต: วัดแล้ว 65–473 px) · วัดกติกานี้กับ 80 เฟรมที่ล็อกแล้ว: กำปั้นใหญ่สุด 37 px · กรอบไม่เกิน 10×8 px (ไม่ลาม)
+- **เฟรมที่เห็นกำปั้นถุงมือแต่ไม่เห็นผิว** (เช่น เดิน SE f5 · NW) → Codex มาร์กกรอบกำปั้นในไฟล์ `c2-pilot-kid4-walkhold-hands.json` ตอนเก็บงาน · Claude ตรวจด้วยภาพซ้อน
+- ค่า `hand_*` = จุดกลางกำปั้น (ปัดเป็นจำนวนเต็ม) · ต้องตกบนพิกเซลกำปั้น (ID 3 หรือ 7) · เฟรมที่มองไม่เห็นมือ → `null` + เหตุผล
+- ตรวจซ้ำกับเฟรมใหม่ทุกครั้งว่าแถว 52–66 ยังมีผิว 0 จุด
+- ตะเกียงตัวแทน: วางกลางห่วง `(16,6)` ที่จุดมือ (ห่วงอยู่ในกำปั้น) · ตะเกียงจริงใน G2.5 ใช้ `grip` ของมันเอง
 - ภาพตรวจ: จุดยึดบนภาพขยาย 6 เท่าทุกเฟรม (80 เฟรม) → ผู้ตรวจอิสระของ Claude
 
 ## 6. เกณฑ์ QG-2b (ตัวเลข)
@@ -58,12 +79,12 @@
 |---|---|---|
 | 1 | จำนวนเฟรม | `idle_hold` 8×4 + `walk_hold` 8×6 = 80 ครบ |
 | 2 | เฟรมใหม่ของ `walk_hold` | ผ่านเกณฑ์ Part B ทุกข้อเดิม (รูใส 0 · กึ่งใส 0 · ขอบนอก plum · mask ครบ ID ว่าง 0 · สีรั่ว 0 จาก 640 แบบ × เฟรม · เท้าเดิน 92–94 แตะ 94 ≥ 2 เฟรม · ต่ำกว่า 94 = 0 ฯลฯ) · ข้อยกเว้นแบบ 2a **ต้องเจ้าของรับใหม่** ไม่ยกต่อให้อัตโนมัติ |
-| 3 | จุดยึดมือที่ถือ | อยู่บนพิกเซลมือ 100% ของเฟรมที่เห็นมือ · เฟรมที่เห็นมือ 70/70 ใน 7 ทิศ (N = 0/10 ตามกติกาข้อ 4.1) |
+| 3 | จุดยึดมือที่ถือ | อยู่บนพิกเซลกำปั้น 100% ของเฟรมที่เห็นมือ · ไม่มีค่าเดา · เฟรม `null` (N และทิศที่ซ่อนตาม D-HAND) = **ข้อยกเว้นที่เจ้าของต้องรับ** (ข้อ 4.1) |
 | 4 | ตะเกียงไม่เหวี่ยง (`walk_hold`) | มือที่ถือเลื่อนซ้ายขวา ≤ 4 px · ขึ้นลง ≤ 3 px · เฟรมติดกัน ≤ 3 px (ตอนนี้ 8–20 px) |
 | 5 | `idle_hold` | มือเลื่อน ≤ 3 px (วัดแล้ว ผ่าน) |
 | 6 | สลับยืน ↔ เดิน | หยุดเดิน (เข้า f3): หัวกระโดด ≤ 1 px · ตะเกียงกระโดด ≤ 3 px · ตอนเริ่มเดินรายงานค่า |
-| 7 | ลำดับวาด | หน้า/หลังตัวถูก 100% ทุกทิศ · หมุนภาพ 0 · ย่อขยาย 0 |
-| 8 | ความยาวห้อยสูงสุด `L_max` | วัดต่อทิศ = 92 − แถวจุดยึดมือต่ำสุด → เป็นเกณฑ์ภาพตะเกียง G2.5 (ตะเกียงไม่ต่ำกว่าแถว 92 = ลอยจากพื้น ≥ 2 px) |
+| 7 | ลำดับวาด | หน้า/หลังตัวตรงค่า z 100% ทุกทิศ · หมุนภาพ 0 · ย่อขยาย 0 |
+| 8 | ความยาวห้อยสูงสุด `L_max` | วัดต่อทิศ = 92 − แถวจุดมือที่ต่ำที่สุดบนจอ → เป็นเกณฑ์ภาพตะเกียง G2.5 (ตะเกียงไม่ต่ำกว่าแถว 92 = ลอยจากพื้น ≥ 2 px) |
 | 9 | FPS หน้า Pilot | เปิดตะเกียง ≥ 90% ของปิด (วิธีเดิมของ G2.6) |
 | 10 | ไฟล์หาย | `walk_hold` หาย → ท่าเดินเดิม + ไม่วาดตะเกียง · ตะเกียงหาย → ไม่วาด · จุดยึดหาย → ไม่วาด · จอไม่ขาว error 0 |
 | 11 | ค่าชดเชย B2 | จุดกลางตัว `walk_hold` ต่างจาก `walk` ≤ 1 px ต่อทิศ → ใช้ B2 เดิม · เกินนั้นรายงานเจ้าของ |
@@ -73,25 +94,25 @@ QG-2 สมบูรณ์ = QG-2a (CONDITIONAL PASS) + QG-2b · สถานะ
 ## 7. ขั้นตอน (ถ้าเลือก A)
 | ขั้น | งาน | ผู้ทำ |
 |---|---|---|
-| 0 | ภาพจำลอง + ตัวเลข (ข้อ 2) ✅ | Claude |
+| 0 | ภาพจำลอง + ตัวเลข (ข้อ 2) ✅ · ผู้ตรวจอิสระวัดซ้ำ ✅ | Claude |
 | 1 | เลือกวิธี (ข้อ 3) · 🟧 ChatGPT ตรวจแผนนี้คู่ขนาน | เจ้าของ · ChatGPT |
 | 2 | PixelLab: ตัว `_4` → Add Animation → Template motion → Skeleton v3 → Walking (6 frames) → Motion settings: **Arm swing ต่ำสุดที่แถบให้ (จดเลข)** · Stride 1× · ค่าอื่นเหมือนท่าเดินเดิม → **ทิศ E ก่อน** → ส่ง GIF | เจ้าของ |
-| 3 | วัดทิศ E: เห็นมือข้างหน้า 6/6 · เลื่อน ≤ 4 px / ≤ 3 px · สีนอกชุดสีเดิม 0 · หน้าเหมือนท่าเดิน E → ส่ง GIF + ตัวเลข → เจ้าของกด 🚀 อีก 7 ทิศ | Claude → เจ้าของ |
-| 4 | รับเข้าแบบไม่เปลี่ยนพิกเซล (วิธีเดียวกับ `walk-src`) · วัดทุกทิศ · ทิศที่ท่าเดินเดิมผ่านเกณฑ์มืออยู่แล้ว (คาด S และ N) ใช้ของเดิม · เขียน `ASSET_SPEC_12` ส่วน D (กติกา = Part B) → ผู้ตรวจอิสระ → เจ้าของอนุมัติ → ข้อความ 🟩 Codex | Claude |
-| 5 | เก็บงาน + mask (คาด 6 ทิศ × 6 = 36 เฟรม) · ส่ง branch หรือ ZIP | Codex |
+| 3 | วัดทิศ E ด้วย `qa_g22b_trial.py` (วัดท่าเดินเดิมด้วยวิธีเดียวกันเทียบ: E เดิม = 11 px วิธีสีผิว): เห็นมือข้างหน้า 6/6 · เลื่อน ≤ 4 px / ≤ 3 px · เฟรมติดกัน ≤ 3 px · สีนอกชุดสีเดิม 0 · หัวเทียบท่าเดินเดิม → ส่ง GIF + ตัวเลข → ถาม D-HAND (ข้อ 4.1) → เจ้าของกด 🚀 อีก 7 ทิศ | Claude → เจ้าของ |
+| 4 | รับเข้าแบบไม่เปลี่ยนพิกเซล (วิธีเดียวกับ `walk-src`) · วัดทุกทิศ · S และ N ใช้ท่าเดินเดิมถ้าผ่านเกณฑ์มือ (ข้อ 3 ข้อเสีย A) · เขียน `ASSET_SPEC_12` ส่วน D (กติกา = Part B + มาร์กกรอบกำปั้น) → ผู้ตรวจอิสระ → เจ้าของอนุมัติ → ข้อความ 🟩 Codex | Claude |
+| 5 | เก็บงาน + mask + กรอบกำปั้น (คาด 6 ทิศ × 6 = 36 เฟรม) · ส่ง branch หรือ ZIP | Codex |
 | 6 | QA + จุดยึดมือ + หน้า Pilot โหมดถือ + ชุดทดสอบ `test_g2_hold.py` → ผู้ตรวจอิสระ → 🟧 ChatGPT ดูความสวย → เจ้าของตัดสิน QG-2b | Claude · ChatGPT · เจ้าของ |
 
 ขั้น 3 ไม่ผ่าน → รายงานตัวเลขแล้วถามเจ้าของ: ลองค่าอื่น / เปลี่ยนเป็นทาง B / รับค่าที่ได้เป็นข้อยกเว้น
 
 ## 8. ไฟล์
-- **ใหม่:** `c2-pilot-kid4-walkhold-src.png/.json` (Claude) · `c2-pilot-kid4-walkhold.png` `-mask.png` `-changes.json` `-mask.json` (Codex) · `test_g2_hold.py` · `qa/g2-2b-*/`
+- **ใหม่:** `c2-pilot-kid4-walkhold-src.png/.json` (Claude) · `c2-pilot-kid4-walkhold.png` `-mask.png` `-changes.json` `-mask.json` `-hands.json` (Codex) · `qa_g22b_trial.py` (Claude · มีแล้ว) · `test_g2_hold.py` · `qa/g2-2b-*/`
 - **แก้:** `c2-pilot-anchors.json` (มือ + ตาราง `hold_hand`) · `build_c2_anchors.py` · `qa_asset12.py` (โหมด `walkhold`) · `pilot-g2-motion.html` (โหมดถือ `?hold`) · Render Contract (หัวข้อของถือ) · `ASSET_SPEC_12` (ส่วน D) · `G2_2_MOTION_PLAN.md`
 - **ไม่แตะ:** `index.html` `sw.js` เกม 2.33 เซฟ Firebase ออนไลน์ · ไฟล์ล็อกทั้งหมด (A1 A2 A3 A3.1 · ท่าเดิน B · ท่ายืน C+A) · `kid-lantern.png` (ใช้เป็นตัวแทนอย่างเดียว)
 
 ## 9. ความเสี่ยงและข้อสงวน
 - แถบ Arm swing อาจลดได้ไม่ถึงศูนย์ → ขั้น 3 ตอบด้วยตัวเลข
-- แขนอีกข้างแกว่งน้อยลงตาม → ChatGPT และเจ้าของตัดสินจาก GIF
-- ทิศ N ไม่เห็นตะเกียง (เห็นแค่แสงใน G2.5)
-- หันข้าม S หรือ N ตะเกียงจะย้ายมือ (ขวา ↔ ซ้าย) · ถ้าไม่ชอบ เปลี่ยนเป็นมือขวาตลอดได้ (แลกกับตะเกียงซ่อน 4 ทิศ)
-- ตะเกียงชุด 08 ยาวเกินราว 2–4 px → G2.5 ต้องตัดสิน: ตะเกียงใหม่ที่สั้นลง หรือยกแขนขึ้น
+- แขนอีกข้างแกว่งน้อยลงตาม · S/N ที่ใช้ท่าเดินเดิมแกว่งเต็มกว่า → ChatGPT และเจ้าของตัดสินจาก GIF
+- ทิศ N ไม่เห็นตะเกียง (เห็นแค่แสงใน G2.5) = ข้อยกเว้น
+- D-HAND: มือขวาตลอดซ่อน 3 ทิศ · มือฝั่งจอย้ายมือตอนหันข้าม S/N
+- ตะเกียงชุด 08 ยาวเกิน 3–4 px → G2.5 ต้องตัดสิน: ตะเกียงใหม่ที่สั้นลง หรือยกแขนขึ้น
 - ข้อสงวน 2a เดิมยังอยู่: เงาอ่านยากบนพื้นมืด · ยังไม่ได้ลองบนมือถือจริง

diff --git a/G2_2_MOTION_PLAN.md b/G2_2_MOTION_PLAN.md
@@ -123,7 +123,7 @@
 |---|---|---|---|
 | ทดลองทิศ S (idle + walk) | Skeleton v3 | ยังไม่เคยกดกับตัว 88×88 | ไม่ต้องอ่านราคาก่อนกด (D4) |
 | ครบอีก 7 ทิศ | Skeleton v3 | คู่มือ 28 ก.ย. (ตัว 64px): เดิน **6 generations ต่อตัว ครบ 8 ทิศ** | ตัว v3 88×88 อาจต่าง |
-| ท่าถือ (2b) | Custom Animation | คู่มือ: 1 generation (ไม่ชัดว่าต่อทิศหรือต่อชุด) | หลัง 2a |
+| ท่าถือ (2b) | ~~Custom Animation~~ → **แผน 2b ทาง A: Skeleton v3 Walking ลด Arm swing** (ท่ายืนถือใช้ท่ายืนที่ล็อก 0 เครดิต) | เท่าท่าเดิน · ลองทิศ E ก่อน | ดู `G2_2B_LANTERN_HOLD_PLAN.md` ข้อ 3 (Custom Animation ไม่ใช้: สีเพี้ยน ตะเกียงติดในภาพ) |
 - **D4 ✅ (15 ต.ค. 16:06):** ไม่ถ่าย/แจ้งราคาก่อนกด · ไม่ตั้งเพดาน · งานดีและเร็วเป็นหลัก · **เจ้าของบอกเองเมื่อเห็นว่าเปลือง** แล้ว Claude เสนอวิธีลด · Claude ยังเลือกทางที่ไม่สิ้นเปลืองเกินจำเป็น (ค่าตั้งเดียวที่ดีที่สุด · กดใหม่เฉพาะทิศที่ไม่ผ่าน)
 
 ## 8. ความเสี่ยง
